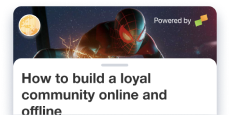
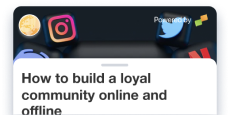
Fix height and image hero (#75)

diff --git a/experiences/homepage/homepage.html b/experiences/homepage/homepage.html
@@ -90,8 +90,8 @@
 			display: flex;
 			justify-content: space-between;
 			align-items: center;
-			padding: 0 15px;
-			height: 50px;
+			padding: 0 15px 8px;
+			height: 40px;
 			box-sizing: border-box;
 		}
 
